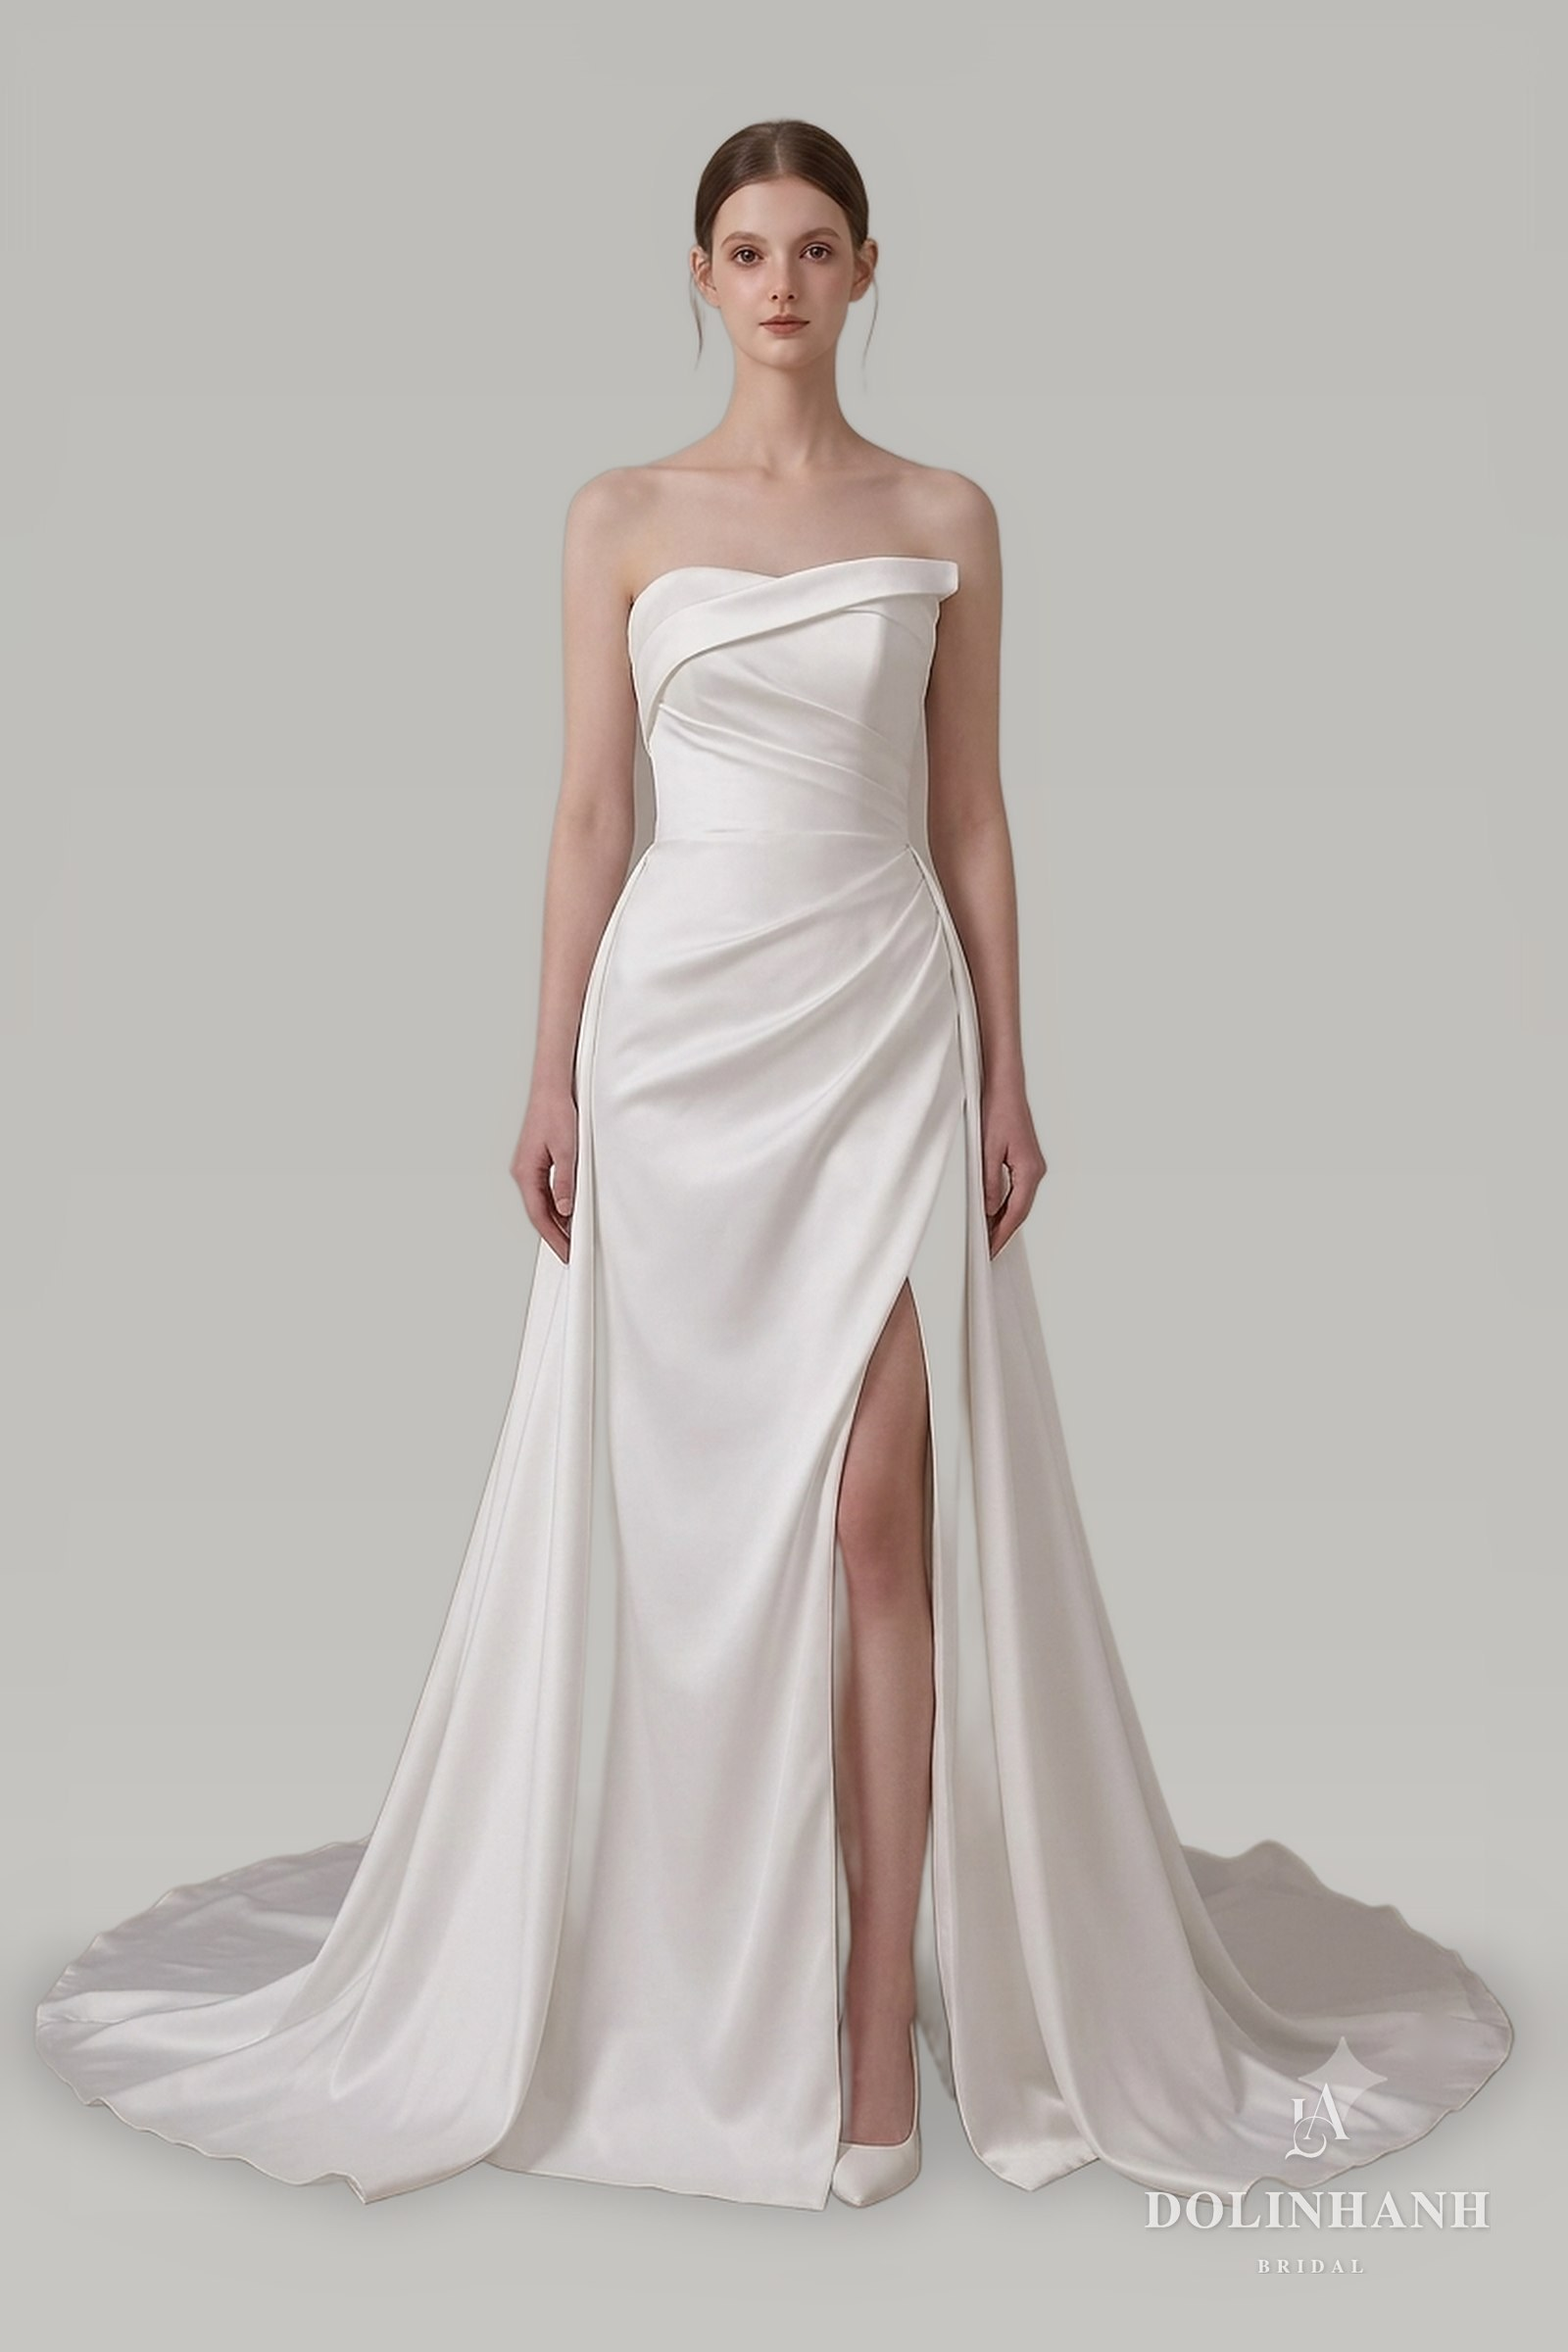
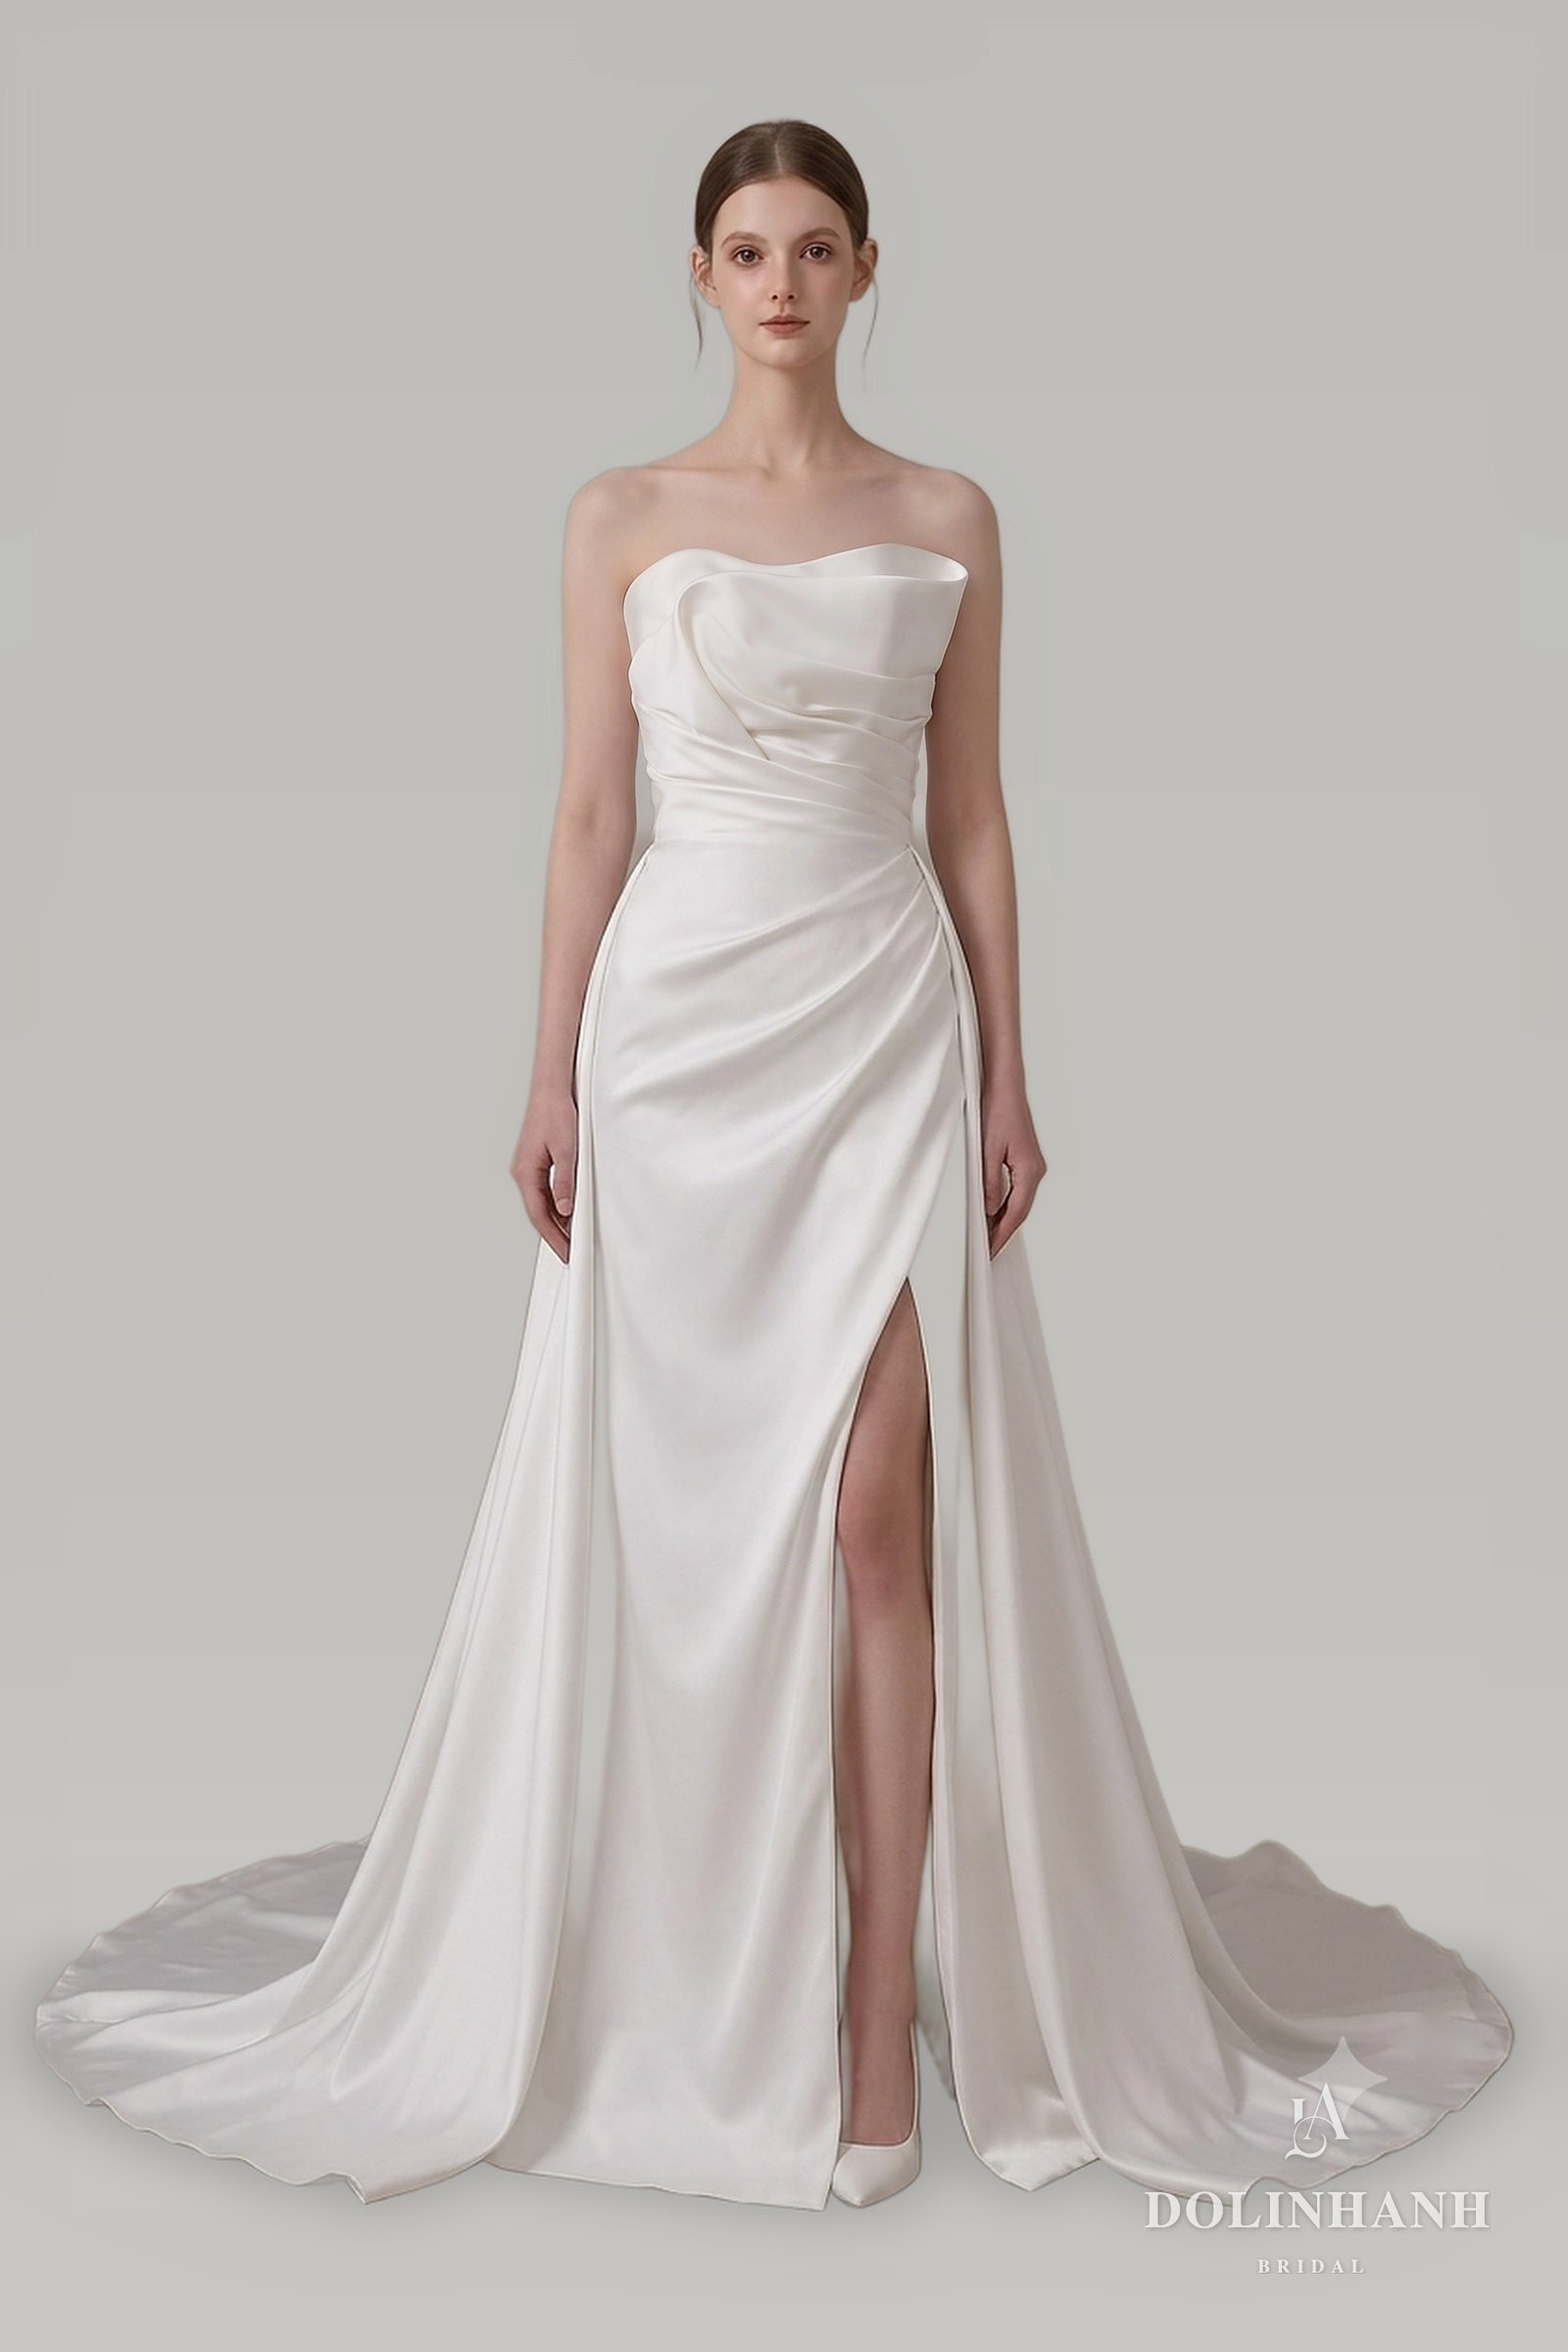
Sửa ảnh MS 57, MS 235 theo váy thật (V162)

Changed region(s): [[0.4062, 0.2188, 0.625, 0.375], [0.375, 0.25, 0.4062, 0.2812]]

diff --git a/bo-suu-tap.html b/bo-suu-tap.html
@@ -951,7 +951,7 @@ src="https://www.facebook.com/tr?id=1358640082651240&ev=PageView&noscript=1"
         </figure>
         <figure data-dang="mermaid" data-mood="minimal" data-coso="hcm" data-sale="1">
           <div class="sl-khung">
-            <div class="sl" data-img="anh/vay/ms57/01.jpg?v=3"></div>
+            <div class="sl" data-img="anh/vay/ms57/01.jpg?v=0311"></div>
           </div>
           <div class="ss-ghim"><span class="ss-nhan"><i data-en="Sample" data-zh="样品">Sample</i><b data-en="Sale" data-zh="特卖">Sale</b></span></div>
           <figcaption><span class="kind" data-en="Dolinhanh Bridal" data-zh="Dolinhanh Bridal">Dolinhanh Bridal</span><span class="nm">MS 57</span><span class="de" data-en="Draped satin, high slit" data-zh="垂坠缎面，高开衩">Satin xẻ tà cao, thân rủ</span><span class="gia" data-goc="US$880">US$440</span></figcaption>
@@ -1951,7 +1951,7 @@ src="https://www.facebook.com/tr?id=1358640082651240&ev=PageView&noscript=1"
         </figure>
         <figure data-dang="mermaid" data-mood="minimal" data-coso="hcm" data-sale="1">
           <div class="sl-khung">
-            <div class="sl" data-img="anh/vay/ms235/01.jpg?v=logo1"></div>
+            <div class="sl" data-img="anh/vay/ms235/01.jpg?v=0311"></div>
           </div>
           <div class="ss-ghim"><span class="ss-nhan"><i data-en="Sample" data-zh="样品">Sample</i><b data-en="Sale" data-zh="特卖">Sale</b></span></div>
           <figcaption><span class="kind" data-en="Dolinhanh Bridal" data-zh="Dolinhanh Bridal">Dolinhanh Bridal</span><span class="nm">MS 235</span><span class="de" data-en="Strapless mermaid, draped bodice" data-zh="抹胸鱼尾，垂坠上身">Đuôi cá quây, xếp nếp thân</span><span class="gia" data-goc="US$880">US$440</span></figcaption>
